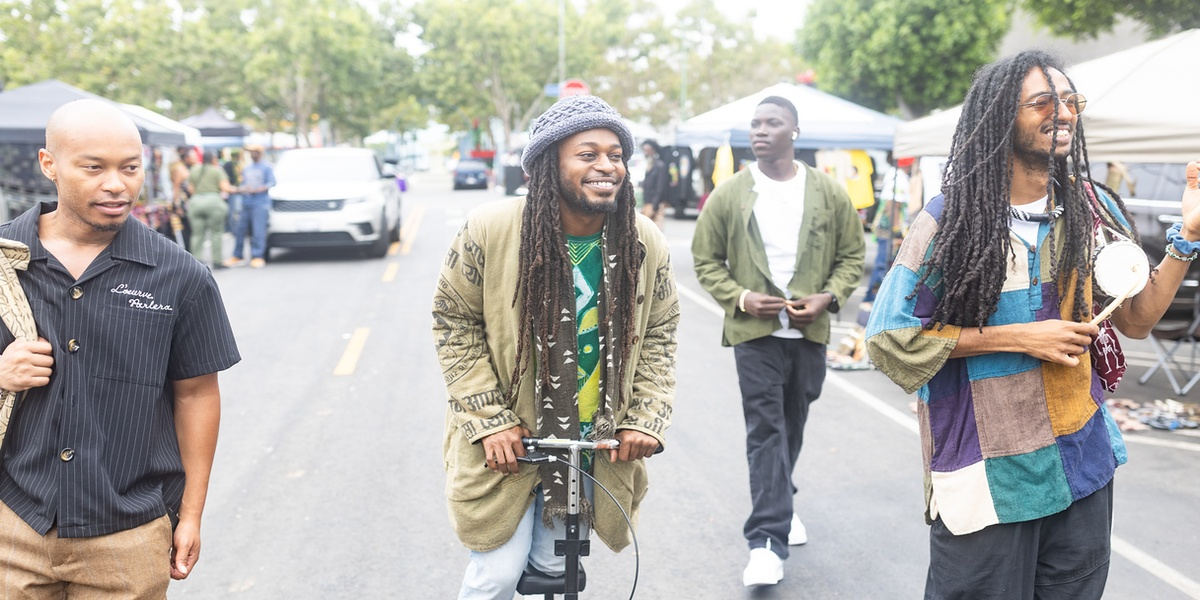
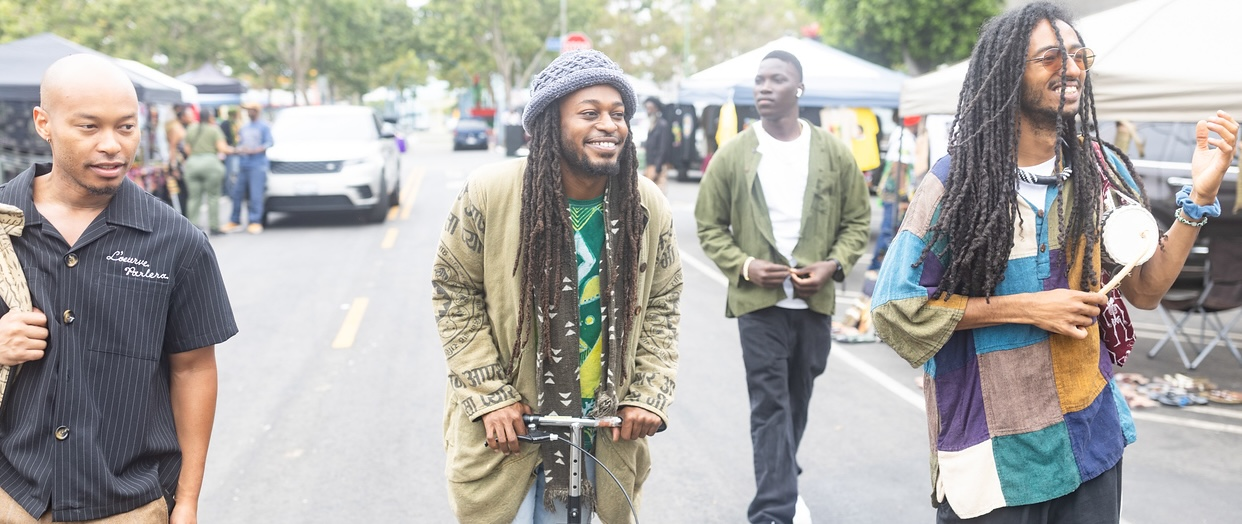
Update gallery: Photo E replaced, Photos G-K added, founding members photo updated

diff --git a/index.html b/index.html
@@ -104,6 +104,21 @@
           <img src="./images/gallery/photo-F.jpg" alt="Gallery photo F" loading="lazy">
         </div>
         <div class="gallery__item">
+          <img src="./images/gallery/photo-G.jpg" alt="Gallery photo G" loading="lazy">
+        </div>
+        <div class="gallery__item">
+          <img src="./images/gallery/photo-H.jpg" alt="Gallery photo H" loading="lazy">
+        </div>
+        <div class="gallery__item">
+          <img src="./images/gallery/photo-I.jpg" alt="Gallery photo I" loading="lazy">
+        </div>
+        <div class="gallery__item">
+          <img src="./images/gallery/photo-J.jpg" alt="Gallery photo J" loading="lazy">
+        </div>
+        <div class="gallery__item">
+          <img src="./images/gallery/photo-K.jpg" alt="Gallery photo K" loading="lazy">
+        </div>
+        <div class="gallery__item">
           <img src="./images/founding-members.jpg" alt="The Mafé Ensemble founding members" loading="lazy">
         </div>
       </div>
